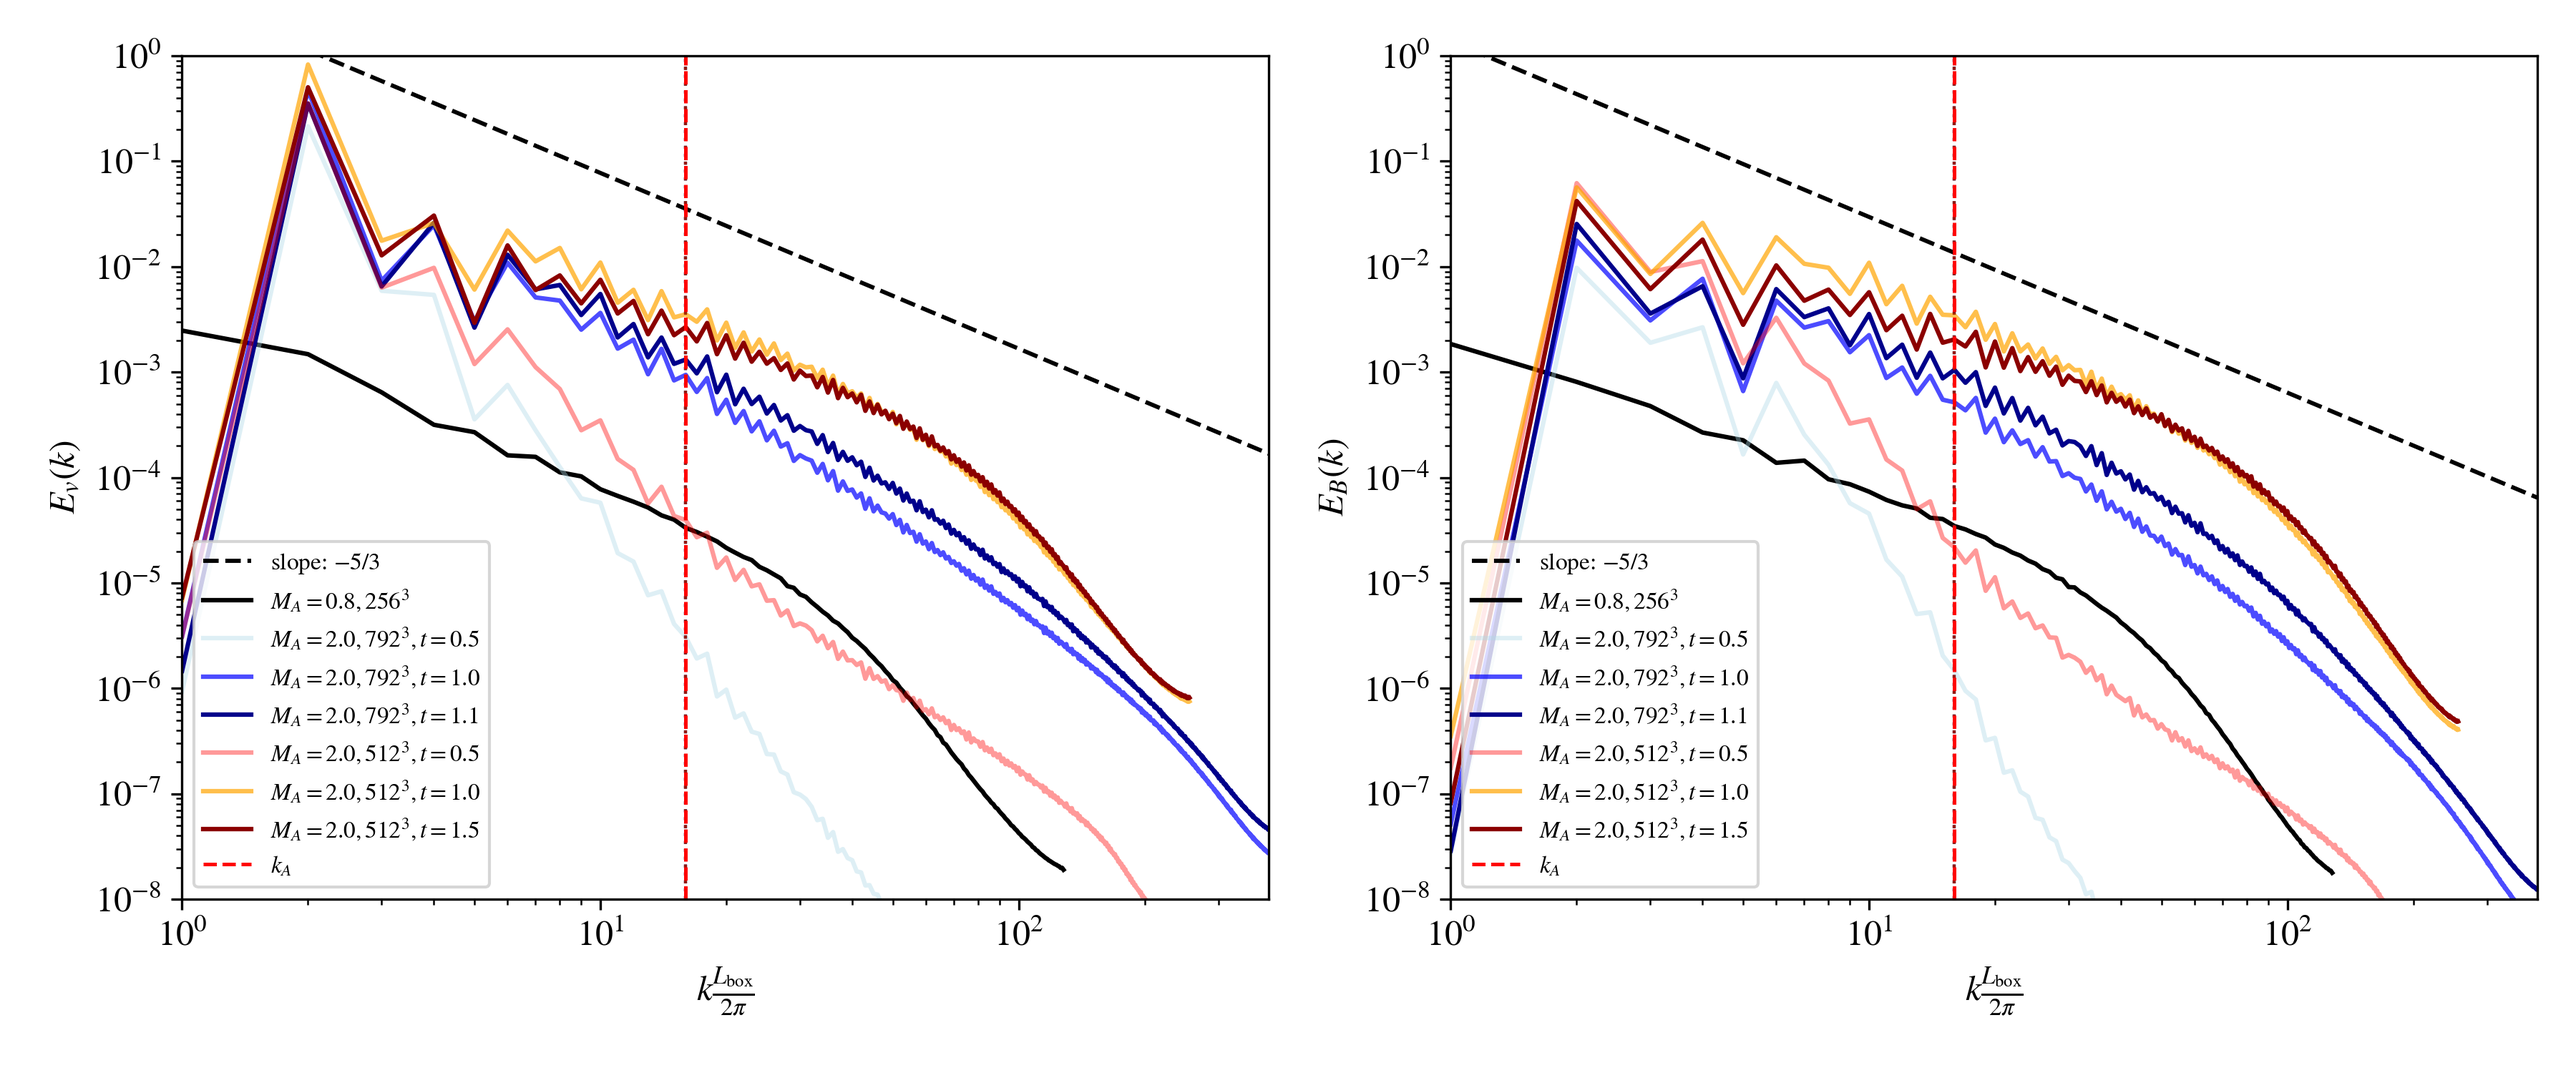
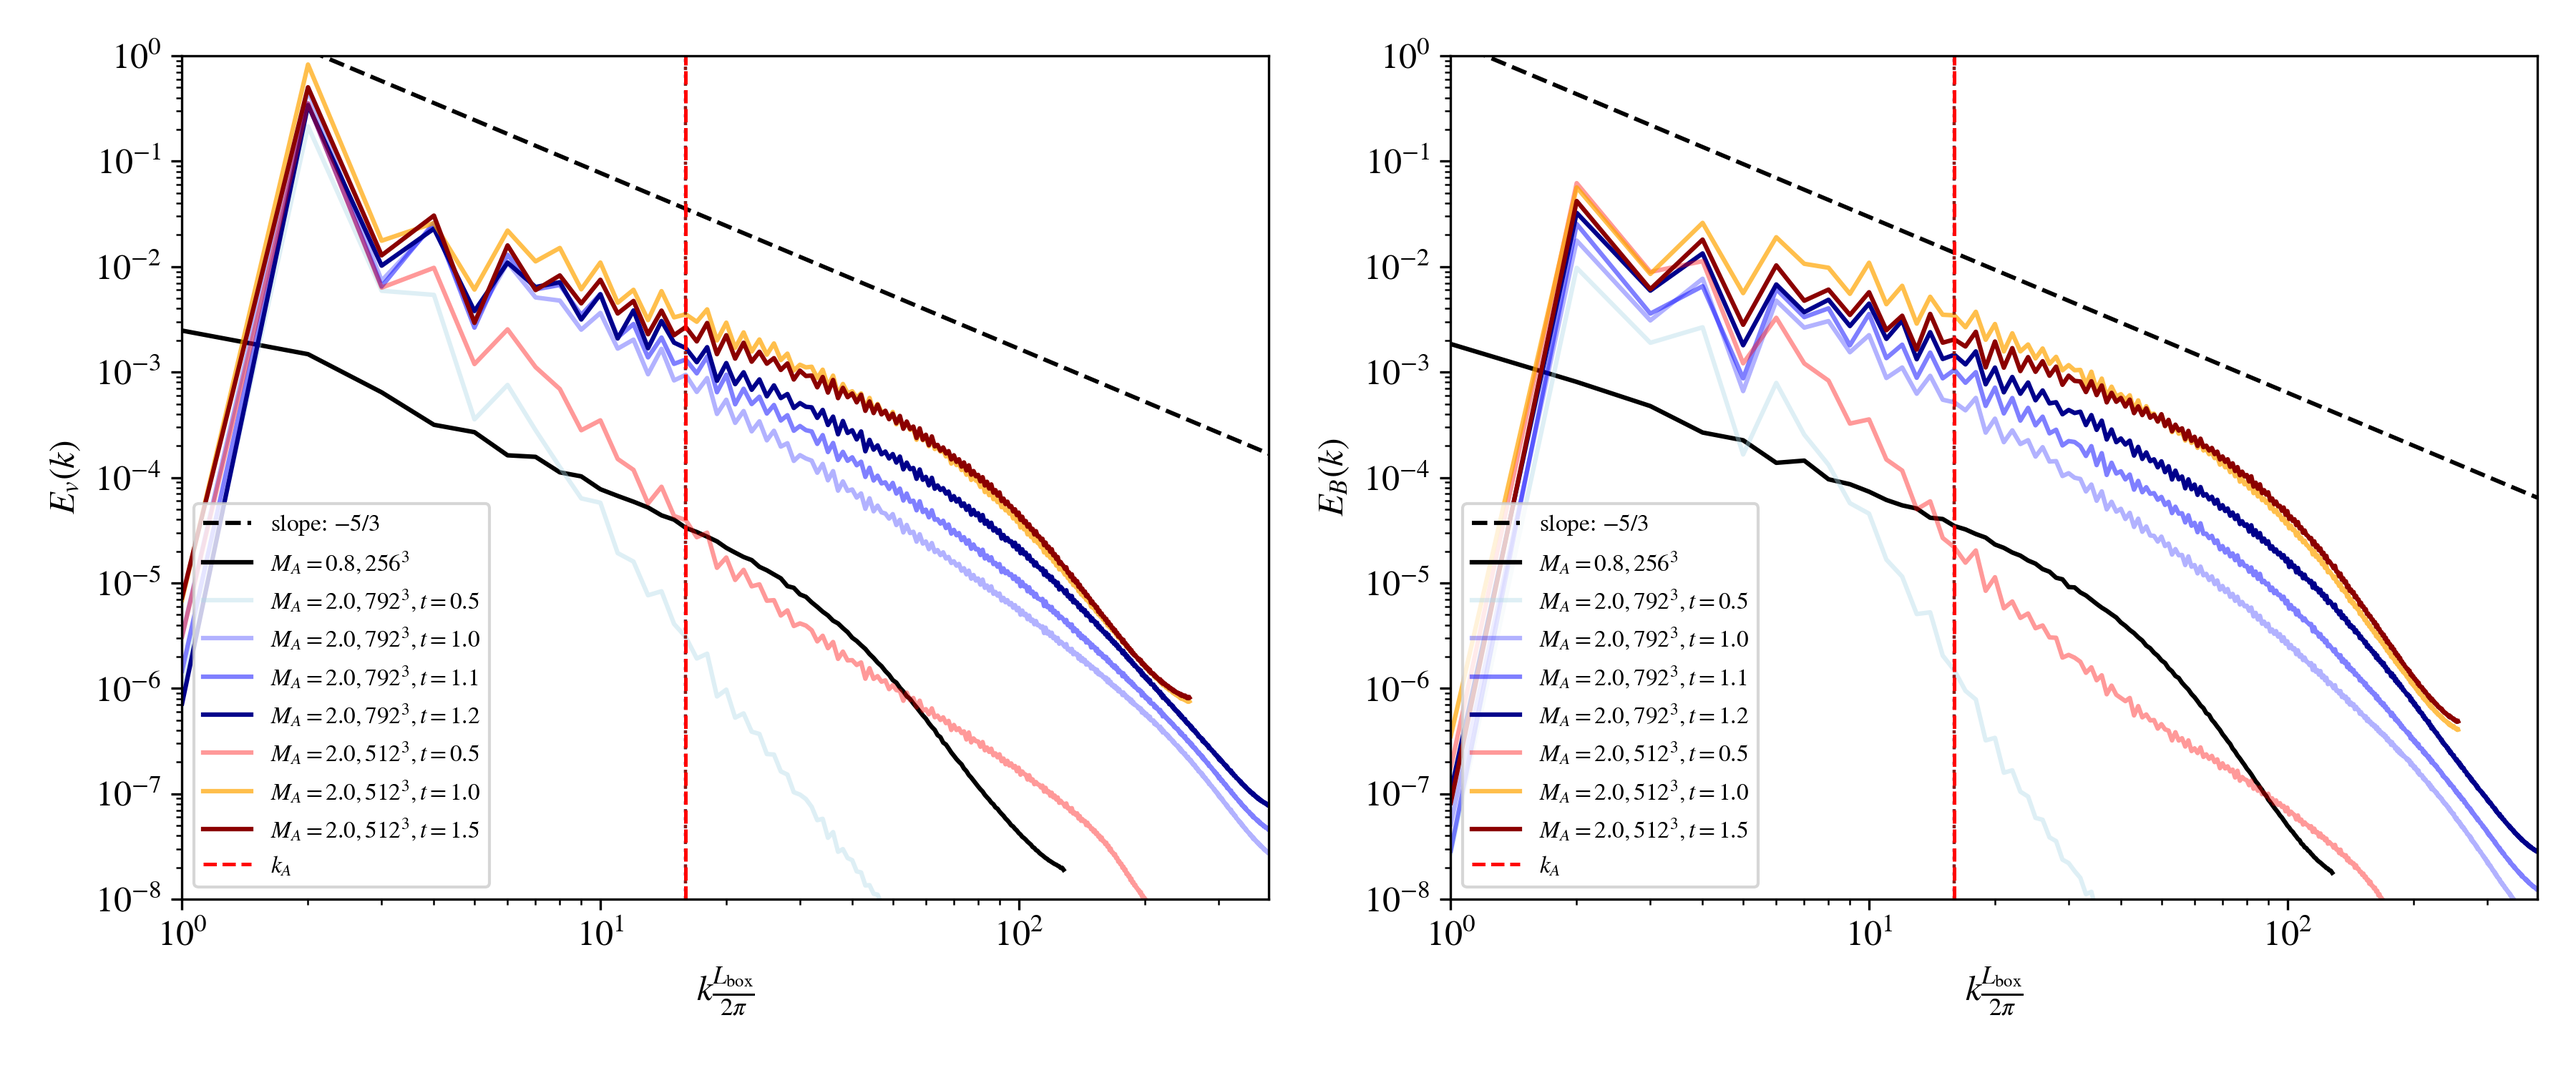
New simulation frame: M_A=2.0, 792^3, t=1.2

diff --git a/vel_b_spectrum/boxes_comparison/recreate_figure.py b/vel_b_spectrum/boxes_comparison/recreate_figure.py
@@ -10,8 +10,9 @@ def replot(npz="M_A=2.0, 792^3, t=1.0.npz", meta="M_A=2.0, 792^3, t=1.0.json", o
     data_files = [
         ("M_A=0.8, 256^3.npz", "M_A=0.8, 256^3.json", r"$M_A=0.8, 256^3$", "black", 1.0),
         ("M_A=2.0, 792^3, t=0.5.npz", "M_A=2.0, 792^3, t=0.5.json", r"$M_A=2.0, 792^3, t=0.5$", "lightblue", 0.4),
-        ("M_A=2.0, 792^3, t=1.0.npz", "M_A=2.0, 792^3, t=1.0.json", r"$M_A=2.0, 792^3, t=1.0$", "blue", 0.7),
-        ("M_A=2.0, 792^3, t=1.1.npz", "M_A=2.0, 792^3, t=1.1.json", r"$M_A=2.0, 792^3, t=1.1$", "darkblue", 1.0),
+        ("M_A=2.0, 792^3, t=1.0.npz", "M_A=2.0, 792^3, t=1.0.json", r"$M_A=2.0, 792^3, t=1.0$", "blue", 0.3),
+        ("M_A=2.0, 792^3, t=1.1.npz", "M_A=2.0, 792^3, t=1.1.json", r"$M_A=2.0, 792^3, t=1.1$", "blue", 0.5),
+        ("M_A=2.0, 792^3, t=1.2.npz", "M_A=2.0, 792^3, t=1.2.json", r"$M_A=2.0, 792^3, t=1.2$", "darkblue", 1.0),
         ("M_A=2.0, 512^3, t=0.5.npz", "M_A=2.0, 512^3, t=0.5.json", r"$M_A=2.0, 512^3, t=0.5$", "red", 0.4),
         ("M_A=2.0, 512^3, t=1.0.npz", "M_A=2.0, 512^3, t=1.0.json", r"$M_A=2.0, 512^3, t=1.0$", "orange", 0.7),
         ("M_A=2.0, 512^3, t=1.5.npz", "M_A=2.0, 512^3, t=1.5.json", r"$M_A=2.0, 512^3, t=1.5$", "darkred", 1.0)
